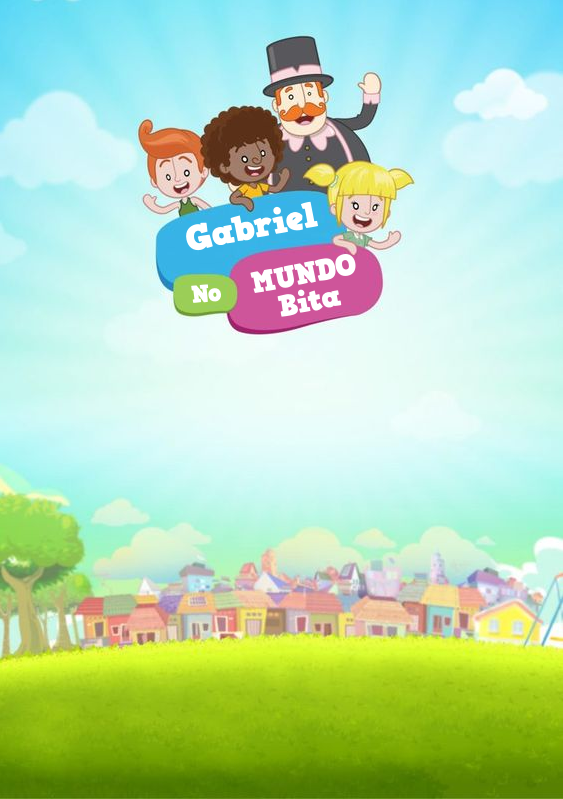
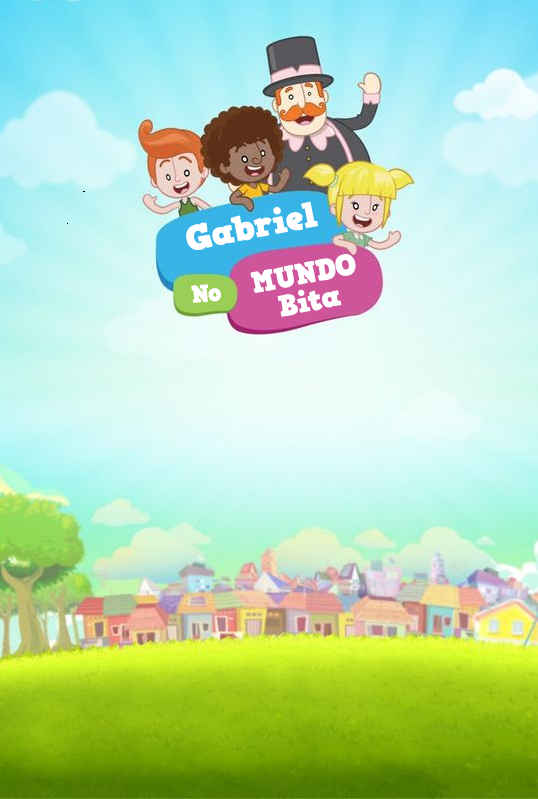
yay

diff --git a/gabriel-2-anos/convite.html b/gabriel-2-anos/convite.html
@@ -18,6 +18,8 @@
       body {
         background-image: url('./convite-bg.png');
         background-repeat: no-repeat;
+        background-size: cover;
+        background-position: center;
         height: 100%;
       }
       .f1 { font-size: 5rem; }
@@ -39,7 +41,7 @@
 
     </style>
   </head>
-  <body class="cover">
+  <body>
     <div class="info w-100 pa4 absolute bottom-0 left-0">
       <div class="w-100 bg-white pa4 br5 tc relative">
         <span class="dib h3"></span>
